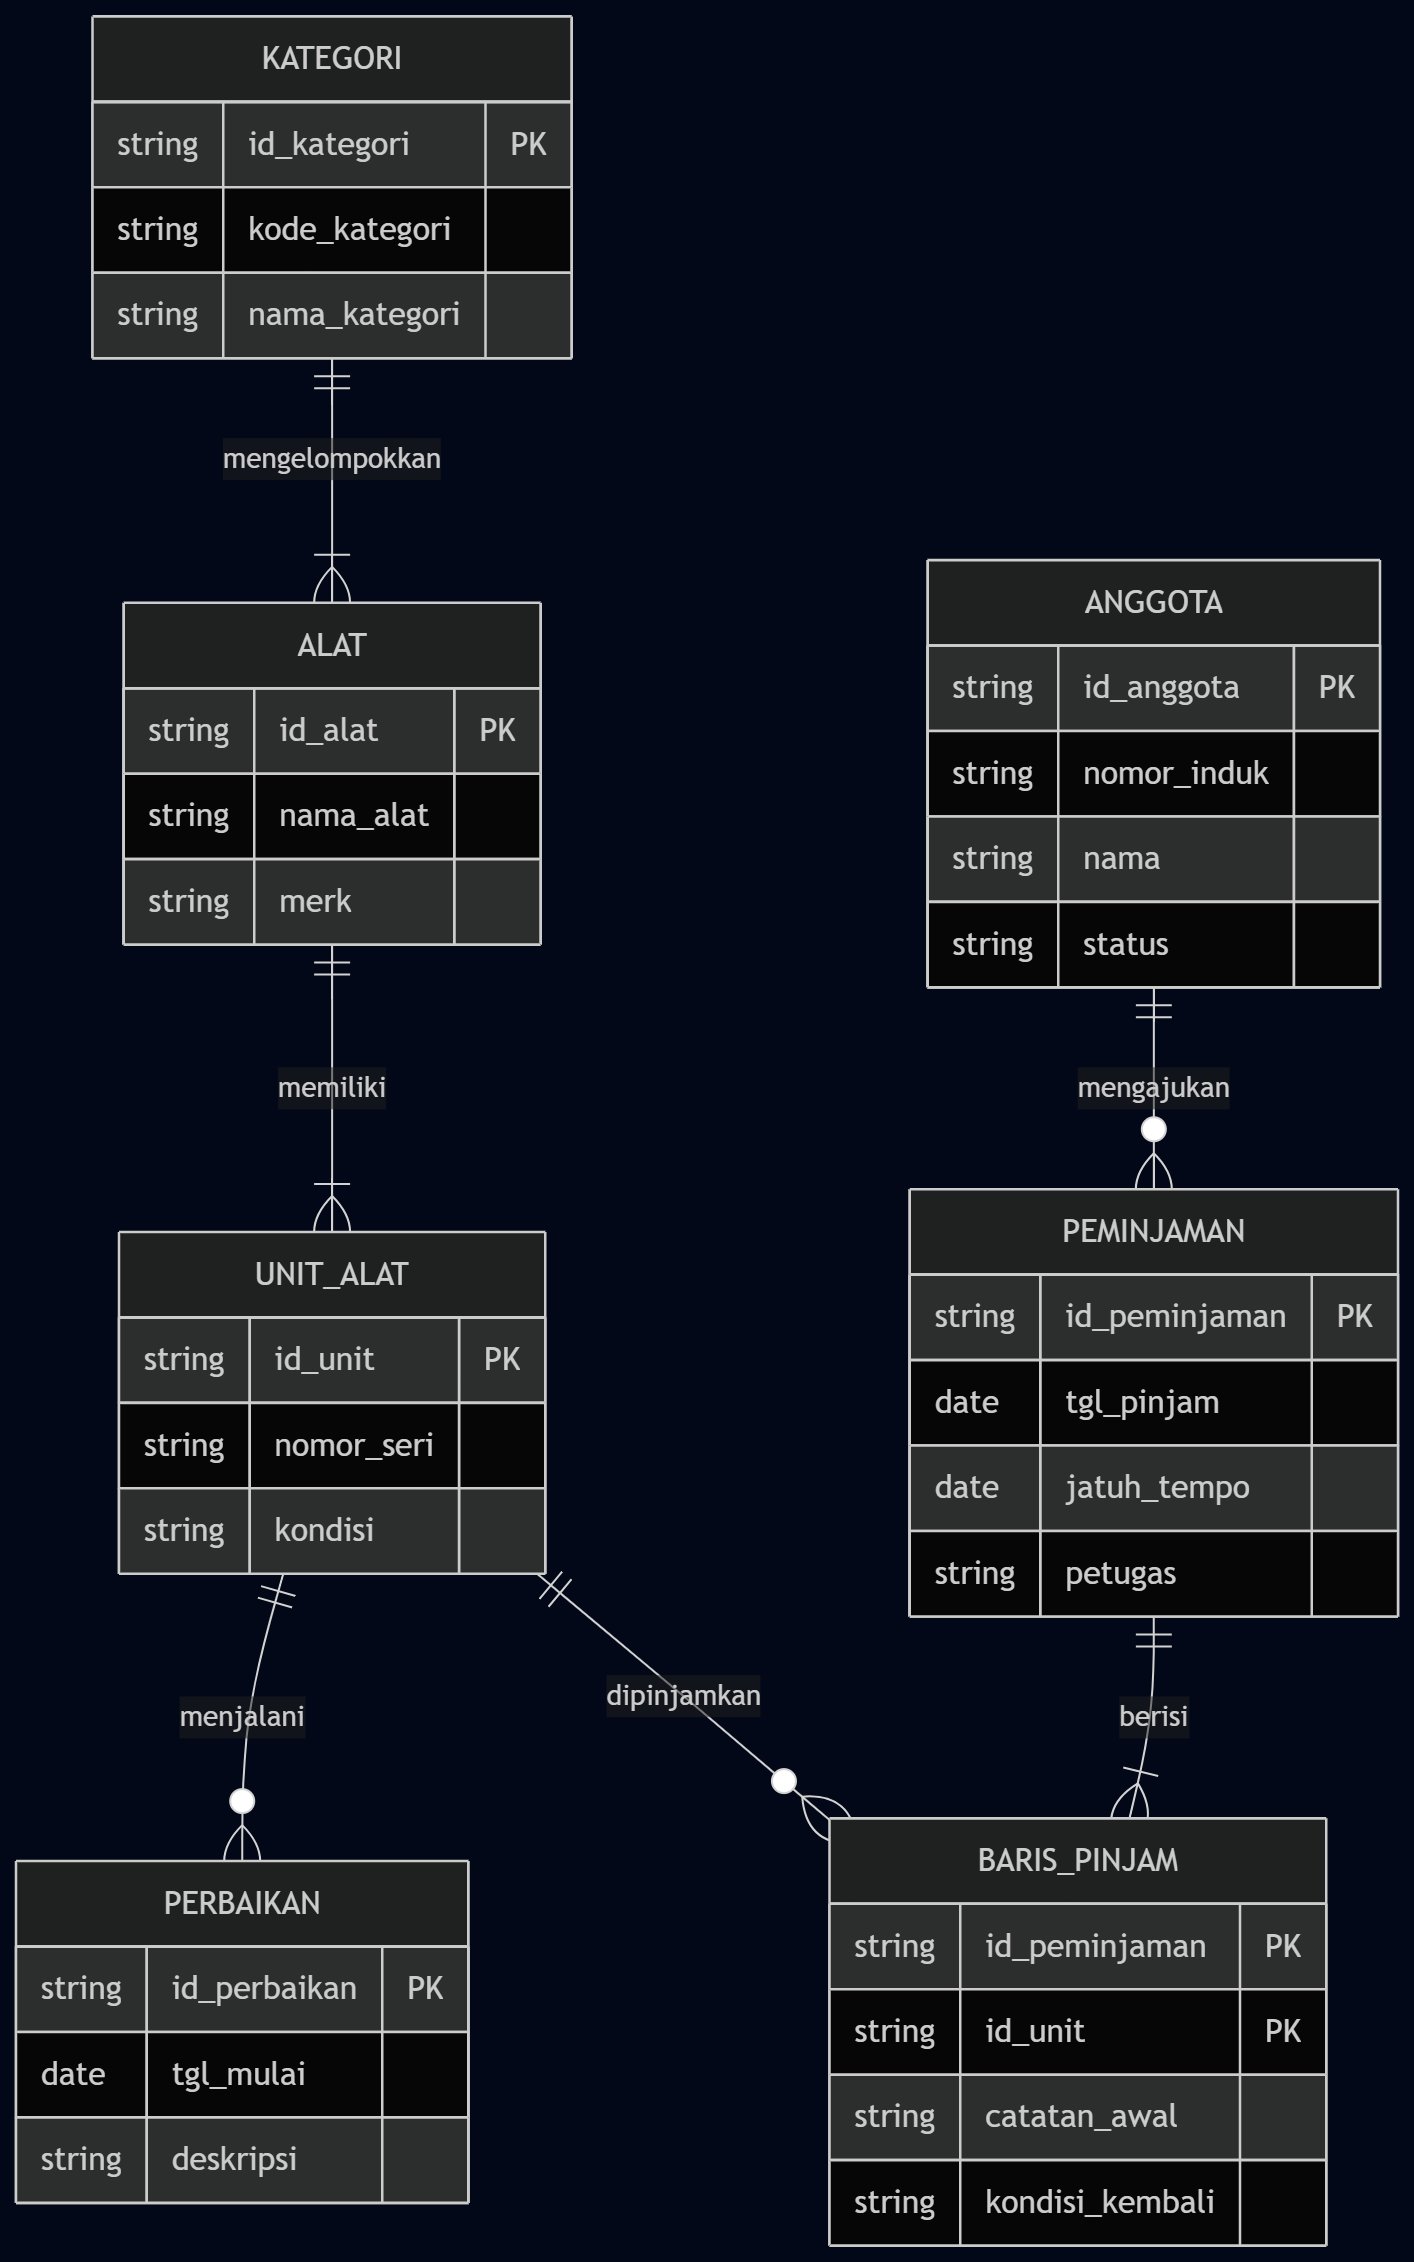
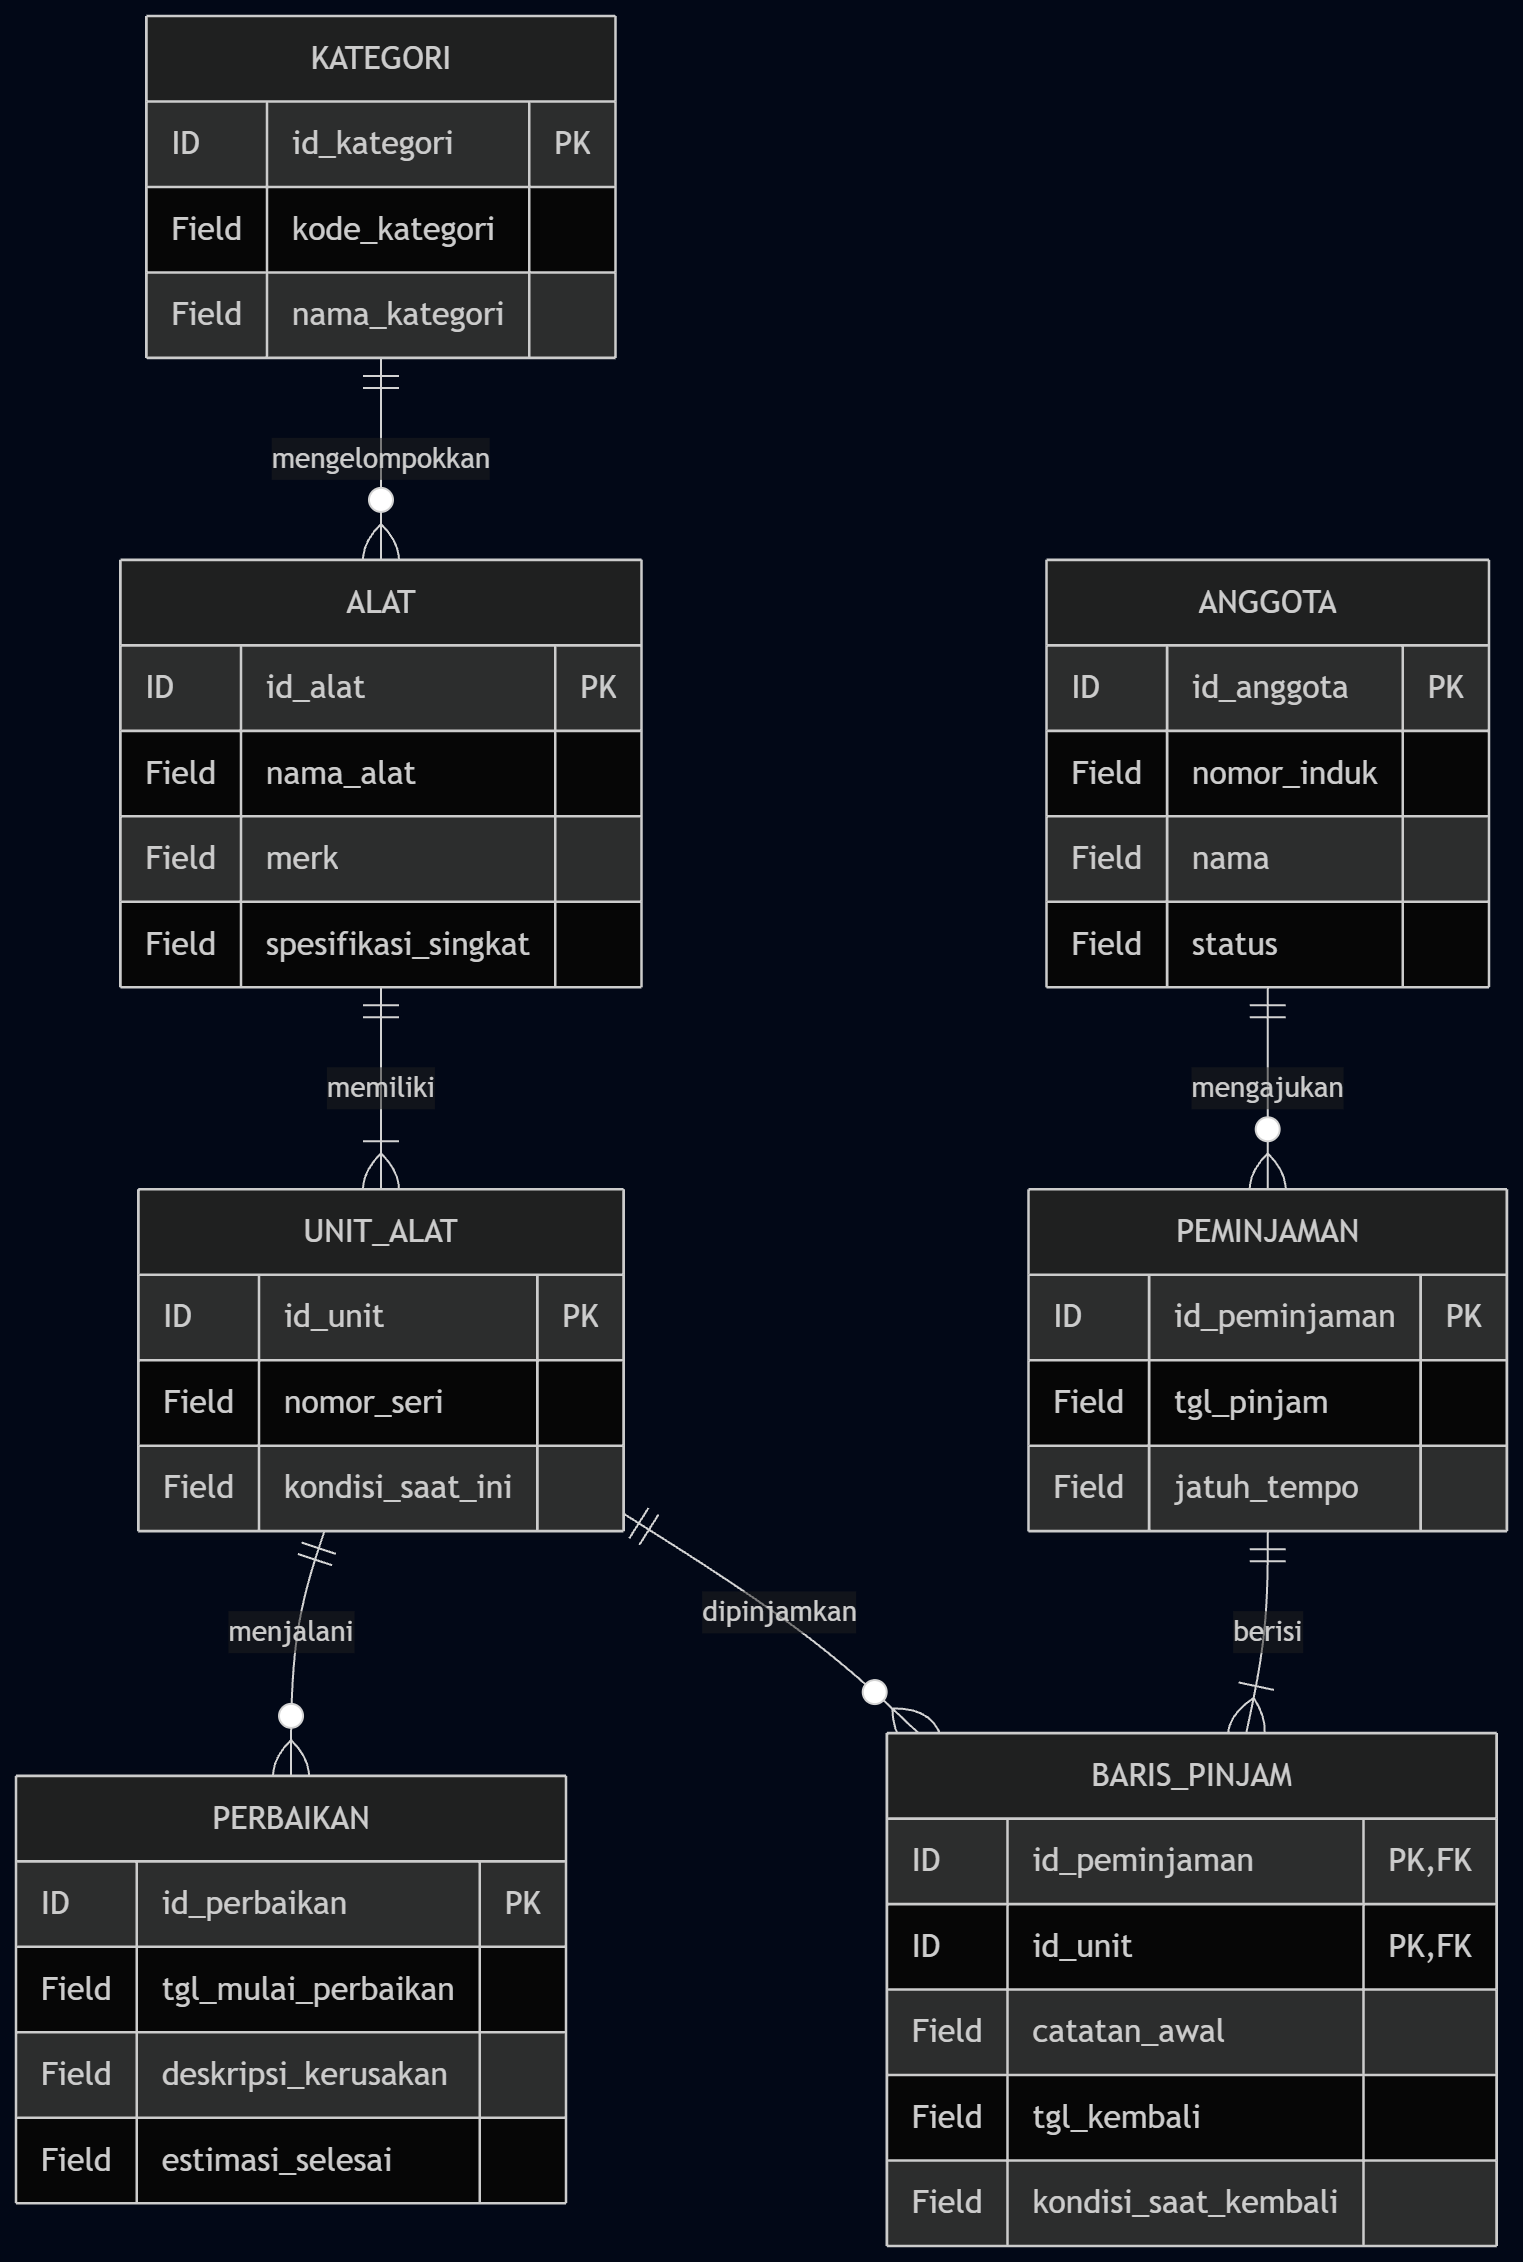
docs: revisi

diff --git a/latihan/p02/erd.md b/latihan/p02/erd.md
@@ -1,4 +1,4 @@
-KATEGORI ||--|{ ALAT : "mengelompokkan"
+    KATEGORI ||--o{ ALAT : "mengelompokkan"
     ALAT ||--|{ UNIT_ALAT : "memiliki"
     UNIT_ALAT ||--o{ PERBAIKAN : "menjalani"
     ANGGOTA ||--o{ PEMINJAMAN : "mengajukan"
@@ -6,41 +6,42 @@ KATEGORI ||--|{ ALAT : "mengelompokkan"
     UNIT_ALAT ||--o{ BARIS_PINJAM : "dipinjamkan"
 
     KATEGORI {
-        id_kategori PK
-        kode_kategori
-        nama_kategori
+        ID id_kategori PK
+        Field kode_kategori
+        Field nama_kategori
     }
     ALAT {
-        id_alat PK
-        nama_alat
-        merk
+        ID id_alat PK
+        Field nama_alat
+        Field merk
+        Field spesifikasi_singkat
     }
     UNIT_ALAT {
-        id_unit PK
-        nomor_seri
-        kondisi
-    }
-    ANGGOTA {
-        id_anggota PK
-        nomor_induk
-        nama
-        status
-    }
-    PEMINJAMAN {
-        id_peminjaman PK
-        tgl_pinjam
-        jatuh_tempo
-        petugas
-    }
-    BARIS_PINJAM {
-        id_peminjaman PK, FK
-        id_unit PK, FK
-        catatan_awal
-        kondisi_kembali
+        ID id_unit PK
+        Field nomor_seri
+        Field kondisi_saat_ini
     }
     PERBAIKAN {
-        id_perbaikan PK
-        tgl_mulai
-        deskripsi
+        ID id_perbaikan PK
+        Field tgl_mulai_perbaikan
+        Field deskripsi_kerusakan
+        Field estimasi_selesai
     }
-    
+    ANGGOTA {
+        ID id_anggota PK
+        Field nomor_induk
+        Field nama
+        Field status
+    }
+    PEMINJAMAN {
+        ID id_peminjaman PK
+        Field tgl_pinjam
+        Field jatuh_tempo
+    }
+    BARIS_PINJAM {
+        ID id_peminjaman PK,FK
+        ID id_unit PK,FK
+        Field catatan_awal
+        Field tgl_kembali
+        Field kondisi_saat_kembali
+    }

diff --git a/latihan/p02/kebutuhan.md b/latihan/p02/kebutuhan.md
@@ -52,7 +52,7 @@
 ### KD-06 Detail Item Dipinjam (Baris Pinjam)
 - Deskripsi : mencatat unit alat apa saja yang dibawa dalam satu transaksi peminjaman
 - Data      : id_peminjaman, id_unit, catatan_awal
-- Aturan    : satu transaksi bisa memuat banyak unit; unit dalam perbaikan tidak bisa dipinjam
+- Aturan    : satu transaksi dapat memuat banyak unit; unit dalam perbaikan tidak dapat dipinjam
 - Volume    : ±90 detail/hari
 - Sumber    : buku log peminjaman
 - Prioritas : wajib
@@ -60,7 +60,7 @@
 ### KD-07 Pengembalian Alat
 - Deskripsi : petugas mencatat pengembalian unit alat oleh peminjam
 - Data      : id_peminjaman, id_unit, tgl_kembali, kondisi_saat_kembali
-- Aturan    : keterlambatan dari jatuh_tempo otomatis memicu catatan denda; kondisi rusak memicu status perbaikan
+- Aturan    : hanya untuk peminjaman yang masih aktif; keterlambatan dikenakan denda; kondisi rusak memindahkan unit ke status perbaikan
 - Volume    : ±60 transaksi/hari
 - Sumber    : hasil wawancara
 - Prioritas : wajib
